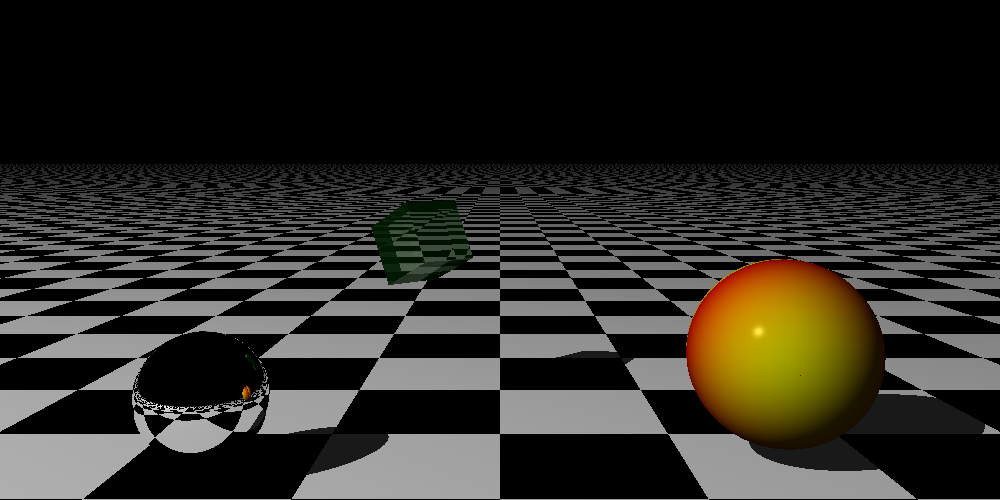
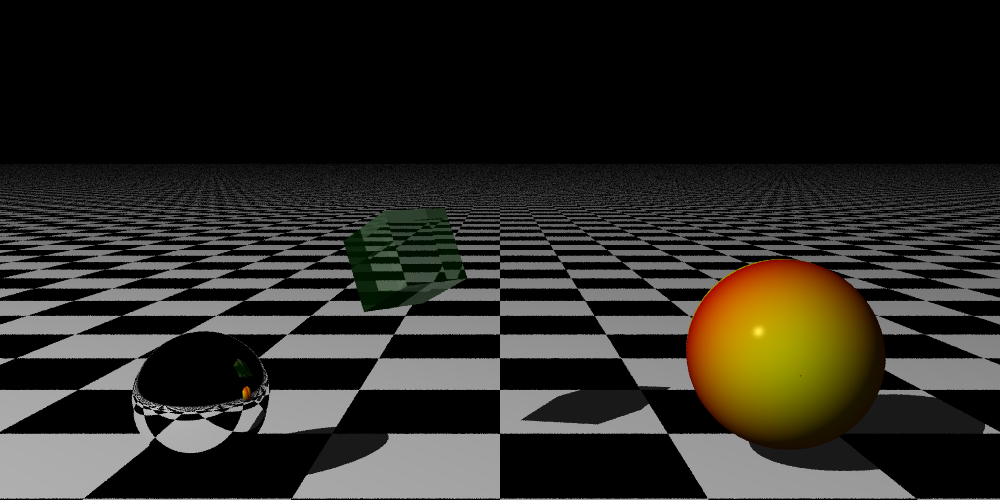
AA examples

diff --git a/go/examples/chapter12/main.go b/go/examples/chapter12/main.go
@@ -14,7 +14,8 @@ func main() {
 	up := render.NewVector(0, 1, 0)
 	camera := render.NewCamera(1000, 500, math.Pi/3)
 	camera.SetTransform(render.View(from, to, up))
-	camera.SetParallelism(16)
+	camera.SetParallelism(32)
+	camera.SetAntialiasing(8)
 
 	patternStripes := render.NewStripesPattern(render.NewColor(0.1, 0.1, 1), render.NewColor(1, 0.1, 0.1))
 	patternStripes.SetTransform(render.Translation(0.5, 0, 0))
@@ -34,7 +35,7 @@ func main() {
 
 	middle := render.NewCube()
 	middle.SetTransform(
-		render.Translation(-0.5, 1, 0.5).Multiply(
+		render.Translation(-0.5, 1, -0.5).Multiply(
 			render.Scaling(0.2, 0.2, 0.2)).Multiply(
 			render.RotationY(math.Pi / 4)).Multiply(
 			render.RotationZ(math.Pi / 7)))

diff --git a/README.md b/README.md
@@ -61,4 +61,12 @@ Pretty cool huh? But still, something was missing. The Fresnel effect. We implem
 
 To break with the monotony and familiarity of my favourite scene, we added cubes in chapter 12. Also implemented multi-threaded rendering as I got bored of waiting:
 
-![Cube Scene](/go/examples/chapter12/example.png?raw=true "CubeRender")
+![Cube Scene](/go/examples/chapter12/example_old.png?raw=true "CubeRender")
+
+I got tired of the patterns in the background due to aliasing, so I implemented AA. My first attempt was doing 4x supersampling:
+
+![Supersampled Scene](/go/examples/chapter12/example_4aa.png?raw=true "SupersampledRender")
+
+It did help, but you can still see some patterning, so I went for stochastic raytracing, which worked, but I did not like that the borders seem noisier. Well, what can you do.
+
+![Stochastic Scene](/go/examples/chapter12/example.png?raw=true "StochasticRender")
